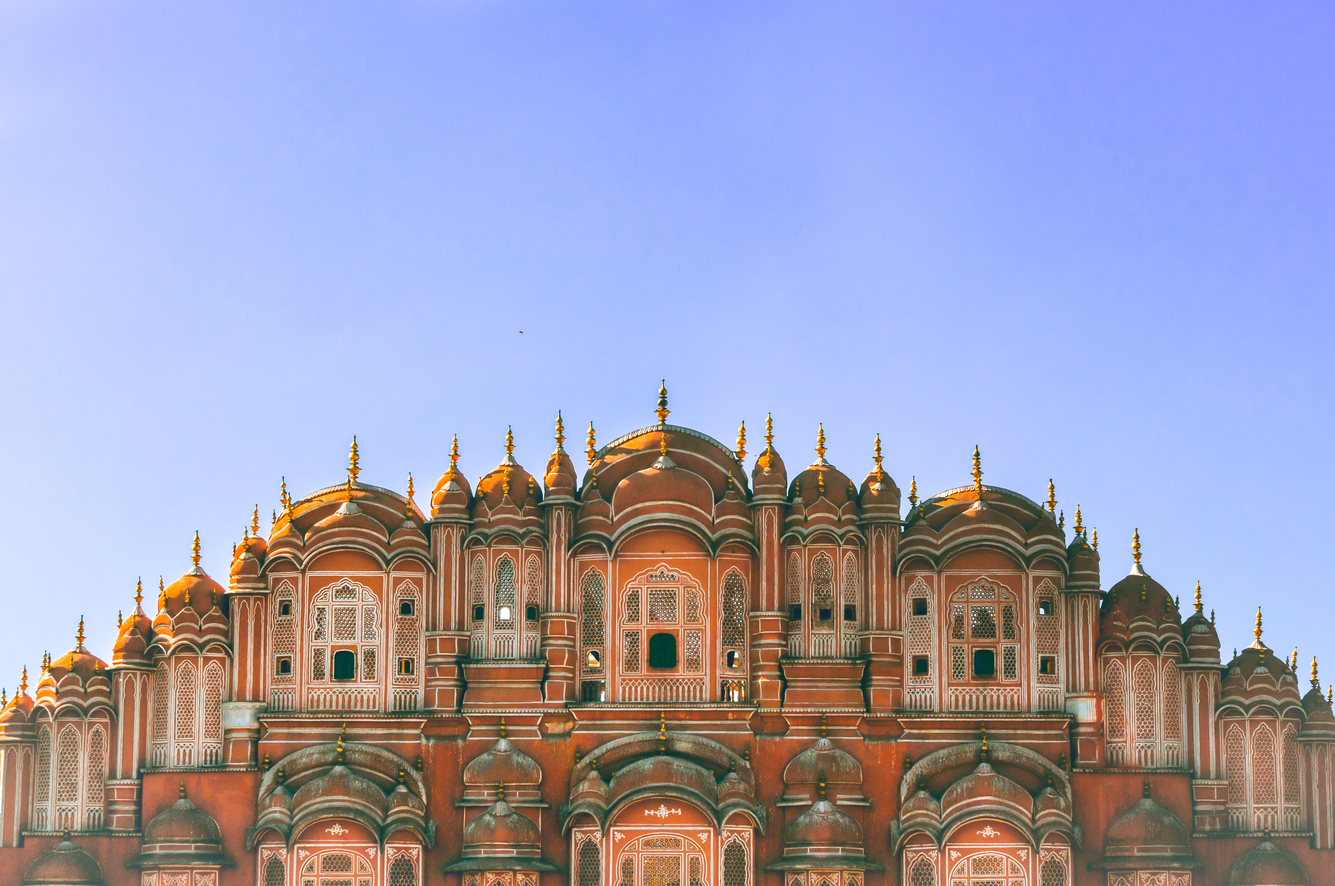
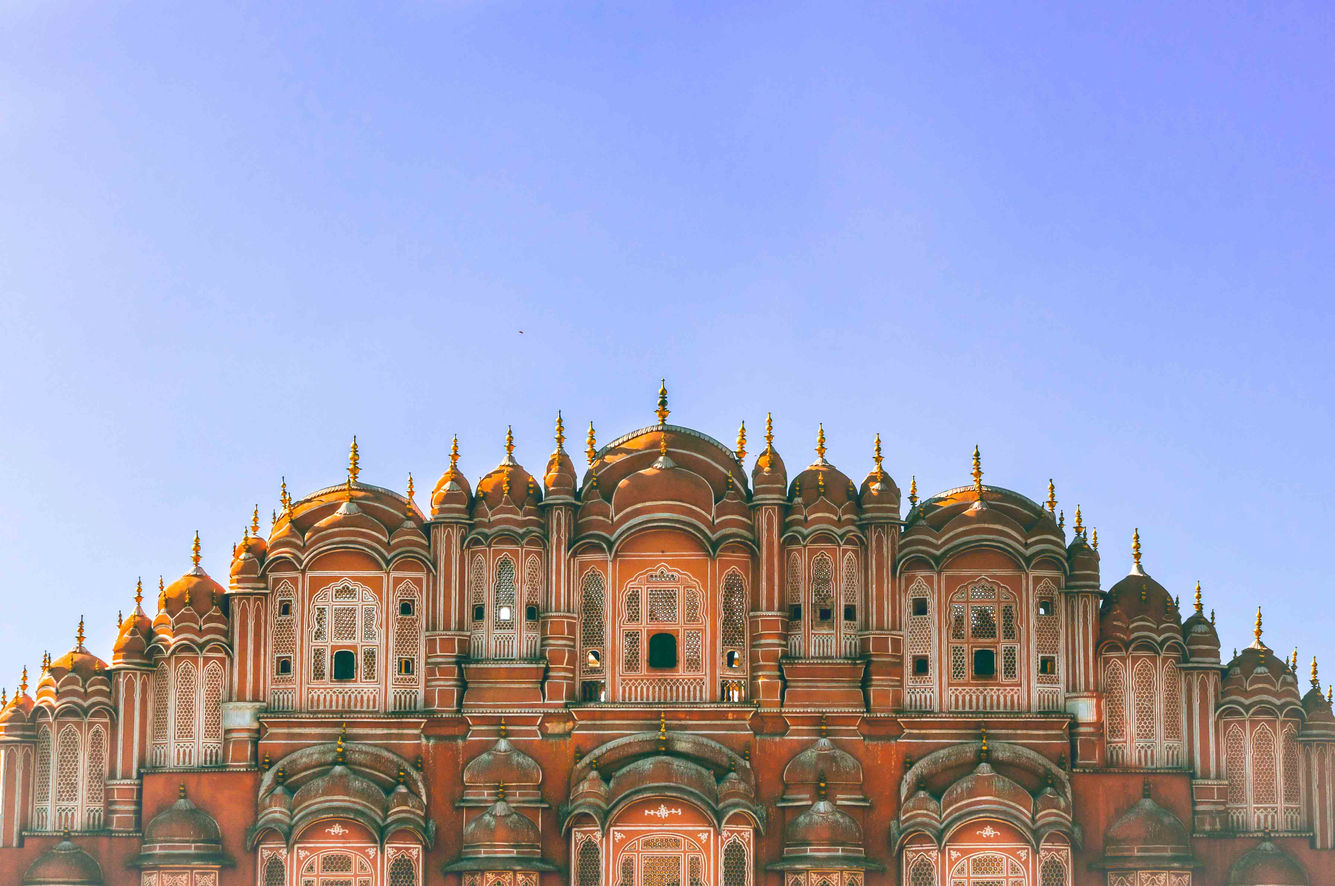
Closes girlscriptjaipur/girlscriptjaipur.github.io#32
Compressed banner images added.

diff --git a/css/style.css b/css/style.css
@@ -509,7 +509,7 @@ p.hit3pvt-phone {
 
 
 .main-content {
-    background: url(../images/banner-new.png) center no-repeat;
+    background: url(../images/banner-new.jpg) center no-repeat;
     -webkit-background-size: cover;
     -moz-background-size: cover;
     -o-background-size: cover;
@@ -681,7 +681,7 @@ a.btn.btn-course:hover {
 }
 
 .last-content {
-    background: url(../images/banner-join-us.png) center no-repeat;
+    background: url(../images/banner-join-us.jpg) center no-repeat;
     -webkit-background-size: cover;
     -moz-background-size: cover;
     -o-background-size: cover;
@@ -716,7 +716,7 @@ a.btn.btn-course:hover {
 
 
 .testimonials {
-    background: url(../images/banner2.jpg) center no-repeat;
+    background: url(../images/banner-join-us.jpg) center no-repeat;
     -webkit-background-size: cover;
     -moz-background-size: cover;
     -o-background-size: cover;
